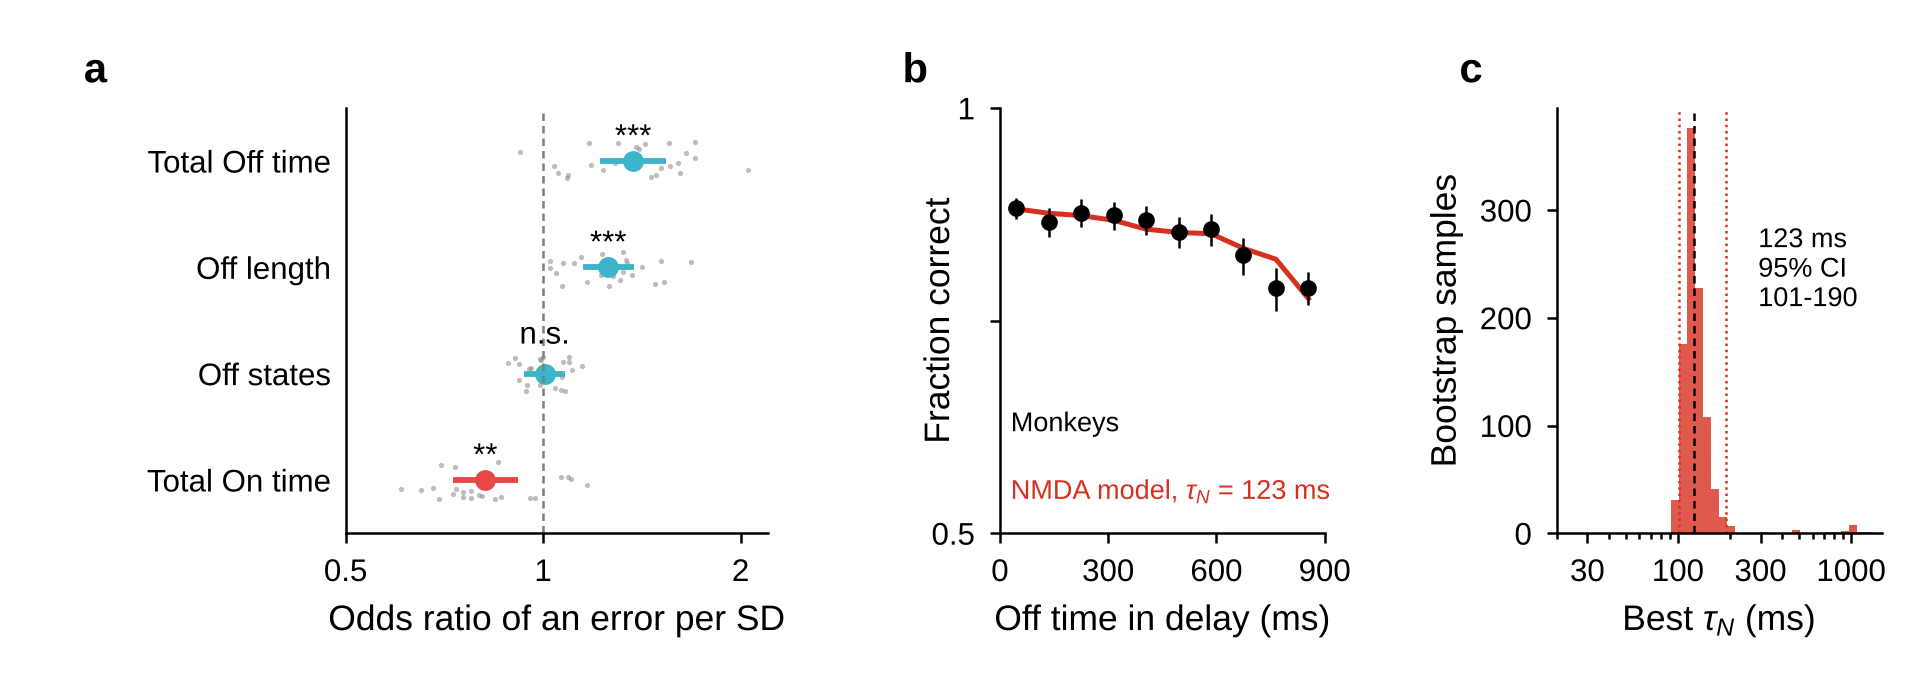
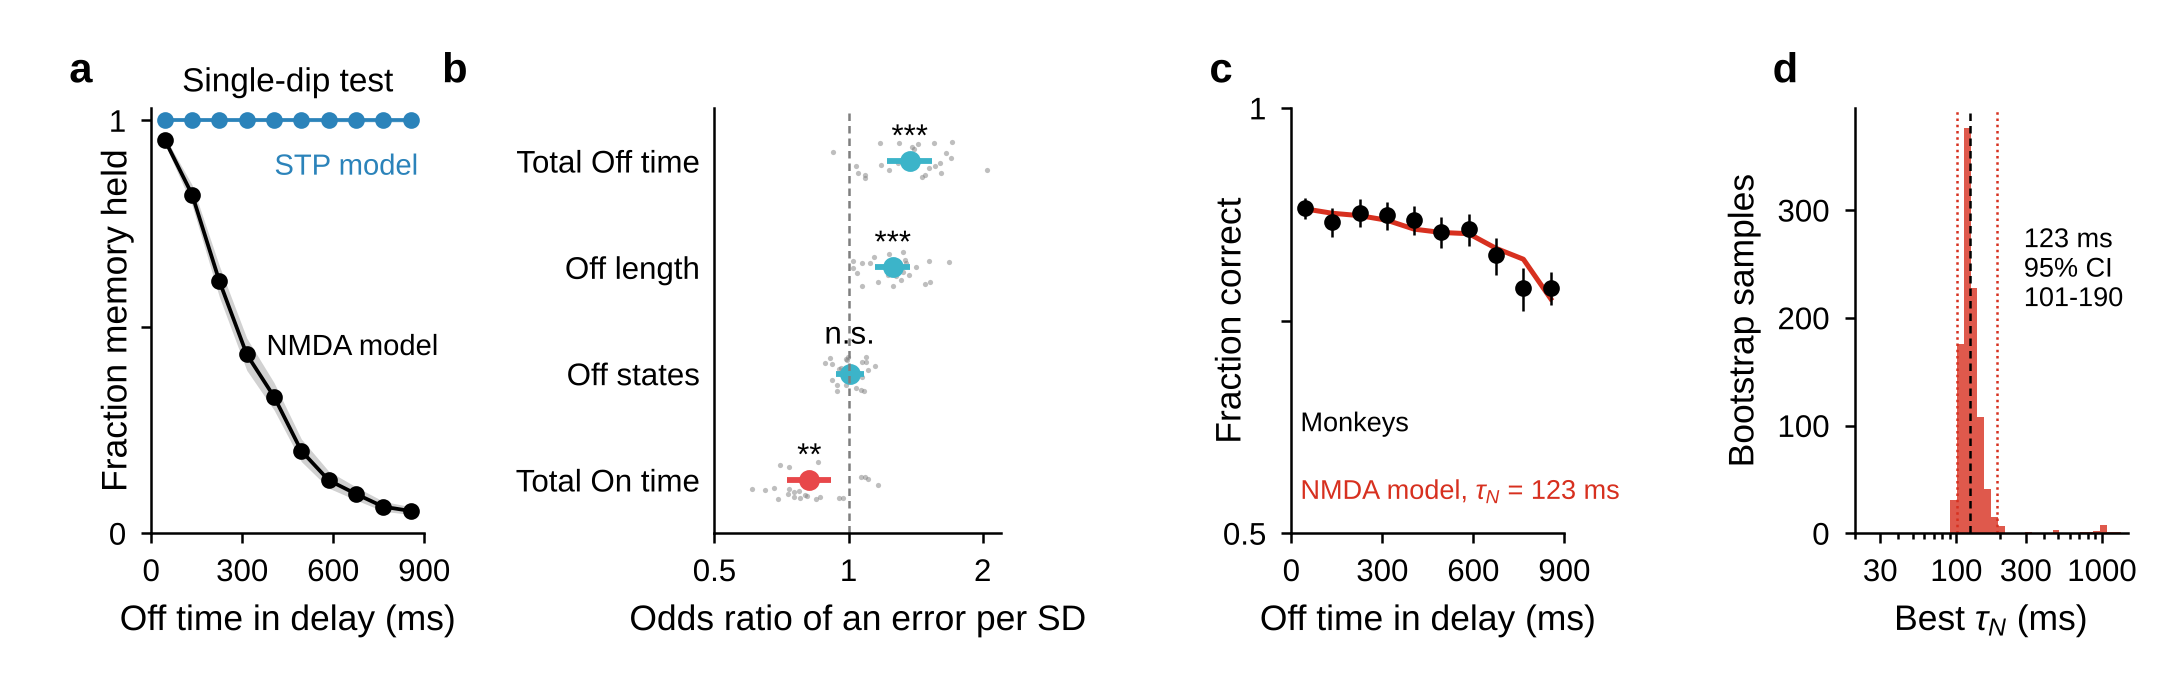
paper: Figure 3a single-dip test (NMDA vs STP, read out as the data); other panels move to b-d
Claude-Session: https://claude.ai/code/session_01Muxo6fVhqMZ2e3pmGJiRgd

diff --git a/paper/scripts/fig3_behaviour_tau.py b/paper/scripts/fig3_behaviour_tau.py
@@ -1,10 +1,13 @@
-"""Figure 3: Off states and errors in the monkeys, and the NMDA time constant fitted to their performance.
+"""Figure 3: single-dip test of the two models, Off states and errors in the monkeys, and the NMDA time constant
+fitted to their performance.
 
-a, odds ratio of an error per within-session SD of each On/Off statistic (logistic GLMM fixed effect, 95% CI),
+a, single-dip test (one dip of 0-1 s per trial, 12,300 trials per model), read out as the data: fraction of trials
+   with the memory held against Off time in the delay, NMDA model (black) and STP model (blue), 95% Wilson intervals.
+b, odds ratio of an error per within-session SD of each On/Off statistic (logistic GLMM fixed effect, 95% CI),
    with each session's weight as grey dots; stars from the likelihood-ratio p.
-b, fraction correct against Off time, all 15,468 trials pooled (95% Wilson intervals), and the NMDA model with the
+c, fraction correct against Off time, all 15,468 trials pooled (95% Wilson intervals), and the NMDA model with the
    best-fitting tau_N (red): P(correct) = p0 x [P(held) + G x P(lost)], G = 1/8 (a guess among the 8 cues).
-c, best tau_N in 1,000 bootstraps over sessions, with the 95% interval (dotted) and the fit to all data (dashed).
+d, best tau_N in 1,000 bootstraps over sessions, with the 95% interval (dotted) and the fit to all data (dashed).
 Model curves P(held | Off) for each tau_N come from the fitted NMDA model with its own dips, only tau_N changed
 (paper_model/tau_sweep.py); the fit follows paper_model/fit_tau_pooled.py.
 
@@ -26,7 +29,7 @@ from paper_model.fit_tau_behaviour import DATA, EDGES, NB, P0, bins, model_curve
 from paper_model.fit_tau_pooled import best, G, N_BOOT  # noqa: E402
 
 GLMM, OUT = sys.argv[1:3]
-C_ON, C_OFF, INK, GREY, C_FIT = '#e8474a', '#3cb4c9', '#000000', '#7f7f7f', '#d7301f'
+C_ON, C_OFF, INK, GREY, C_FIT, C_STP = '#e8474a', '#3cb4c9', '#000000', '#7f7f7f', '#d7301f', '#2b83ba'
 plt.rcParams.update({'font.family': 'sans-serif', 'font.sans-serif': ['Arial', 'Helvetica', 'Liberation Sans'],
                      'font.size': 8.5, 'axes.labelsize': 8.5, 'xtick.labelsize': 7.5, 'ytick.labelsize': 7.5,
                      'axes.linewidth': 0.6, 'xtick.major.width': 0.6, 'ytick.major.width': 0.6,
@@ -67,11 +70,30 @@ boot = np.array([fine[best(ks[idx].sum(0), ns[idx].sum(0), Hf)[0]]
                  for idx in (rng.integers(0, len(names), len(names)) for _ in range(N_BOOT))])
 med, lo95, hi95 = np.percentile(boot, (50, 2.5, 97.5))
 
-fig = plt.figure(figsize=(6.4, 2.25))
-gs = fig.add_gridspec(1, 3, width_ratios=[1.3, 1, 1], wspace=0.65, left=0.18, right=0.98, top=0.84, bottom=0.21)
-a, bx, dx = (fig.add_subplot(gs[0, q]) for q in range(3))
+fig = plt.figure(figsize=(7.2, 2.25))
+gs = fig.add_gridspec(1, 4, width_ratios=[1, 1.05, 1, 1], wspace=1.05, left=0.07, right=0.985, top=0.84, bottom=0.21)
+sx, a, bx, dx = (fig.add_subplot(gs[0, q]) for q in range(4))
 
-# a: odds ratio of an error per SD of each statistic
+# a: single-dip test, read out as the data, both models
+for v, name, col in (('nmda', 'NMDA model', INK), ('fac', 'STP model', C_STP)):
+    dd = np.load(os.path.join('figures', 'off_vs_memory', v, 'single_dip_readout_trials.npz'))
+    fr = np.round(dd['off_time_s'] / 0.01) / 91
+    held = dd['memory_held'].astype(bool)
+    q = np.clip(np.digitize(fr, EDGES) - 1, 0, NB - 1)
+    kk = np.bincount(q, weights=held, minlength=NB); nn = np.bincount(q, minlength=NB)
+    lo, hi = wilson(kk, nn)
+    cen0 = 900 * (EDGES[:-1] + np.minimum(EDGES[1:], 1)) / 2
+    sx.fill_between(cen0, lo, hi, color=col, alpha=0.18, lw=0)
+    sx.plot(cen0, kk / nn, 'o-', color=col, ms=3, label=name)
+sx.set_xlim(0, 900); sx.set_xticks([0, 300, 600, 900]); sx.set_ylim(0, 1.03)
+sx.set_yticks([0, 0.5, 1], ['0', '', '1']); sx.yaxis.labelpad = -6
+sx.set_xlabel('Off time in delay (ms)'); sx.set_ylabel('Fraction memory held')
+sx.set_title('Single-dip test', fontsize=8, pad=4)
+sx.text(880, 0.92, 'STP model', color=C_STP, fontsize=7, ha='right', va='top')
+sx.text(380, 0.45, 'NMDA model', color=INK, fontsize=7, ha='left', va='center')
+letter(sx, 'a')
+
+# b: odds ratio of an error per SD of each statistic
 glmm = pd.read_csv(f'{GLMM}/joint_glmm.csv')
 sw = pd.read_csv(f'{GLMM}/joint_glmm_session_weights.csv')
 stats_ = [('frac_off', 'Total Off time', C_OFF), ('off_len_ms', 'Off length', C_OFF),
@@ -91,9 +113,9 @@ a.set_xticks([0.5, 1, 2], ['0.5', '1', '2']); a.xaxis.set_minor_locator(matplotl
 a.set_yticks(range(len(stats_)), [r[1] for r in stats_]); a.set_ylim(len(stats_) - 0.5, -0.5)
 a.tick_params(axis='y', length=0)
 a.set_xlabel('Odds ratio of an error per SD')
-letter(a, 'a', x=-0.62)
+letter(a, 'b', x=-0.95)
 
-# b: fraction correct against Off time, data and best-fitting NMDA model
+# c: fraction correct against Off time, data and best-fitting NMDA model
 cen = 900 * (EDGES[:-1] + np.minimum(EDGES[1:], 1)) / 2
 pk = k / n; lo, hi = wilson(k, n)
 bx.plot(cen, p0 * (Hf[i] + G * (1 - Hf[i])), color=C_FIT, lw=1.2)
@@ -103,9 +125,9 @@ bx.set_yticks([0.5, 0.75, 1], ['0.5', '', '1']); bx.yaxis.labelpad = -6
 bx.set_xlabel('Off time in delay (ms)'); bx.set_ylabel('Fraction correct')
 bx.text(30, 0.62, 'Monkeys', fontsize=6.5, color=INK)
 bx.text(30, 0.54, rf'NMDA model, $\tau_N$ = {tau:.0f} ms', fontsize=6.5, color=C_FIT)
-letter(bx, 'b')
+letter(bx, 'c')
 
-# c: bootstrap over sessions
+# d: bootstrap over sessions
 edges = np.exp(np.linspace(np.log(20), np.log(1500), 41))
 dx.hist(boot, bins=edges, color=C_FIT, alpha=0.8, lw=0)
 log_axis(dx)
@@ -115,7 +137,7 @@ dx.axvline(tau, color=INK, lw=0.6, ls=(0, (3, 2)))
 dx.set_xlabel(r'Best $\tau_N$ (ms)'); dx.set_ylabel('Bootstrap samples')
 dx.text(0.62, 0.62, f'{tau:.0f} ms\n95% CI\n{lo95:.0f}-{hi95:.0f}', transform=dx.transAxes, ha='left', va='center',
         fontsize=6.5)
-letter(dx, 'c')
+letter(dx, 'd')
 
 fig.savefig(OUT, dpi=300)
 print(f'best tau_N {tau:.1f} ms, p0 {p0:.3f}; bootstrap median {med:.0f}, 95% CI {lo95:.0f}-{hi95:.0f};'
